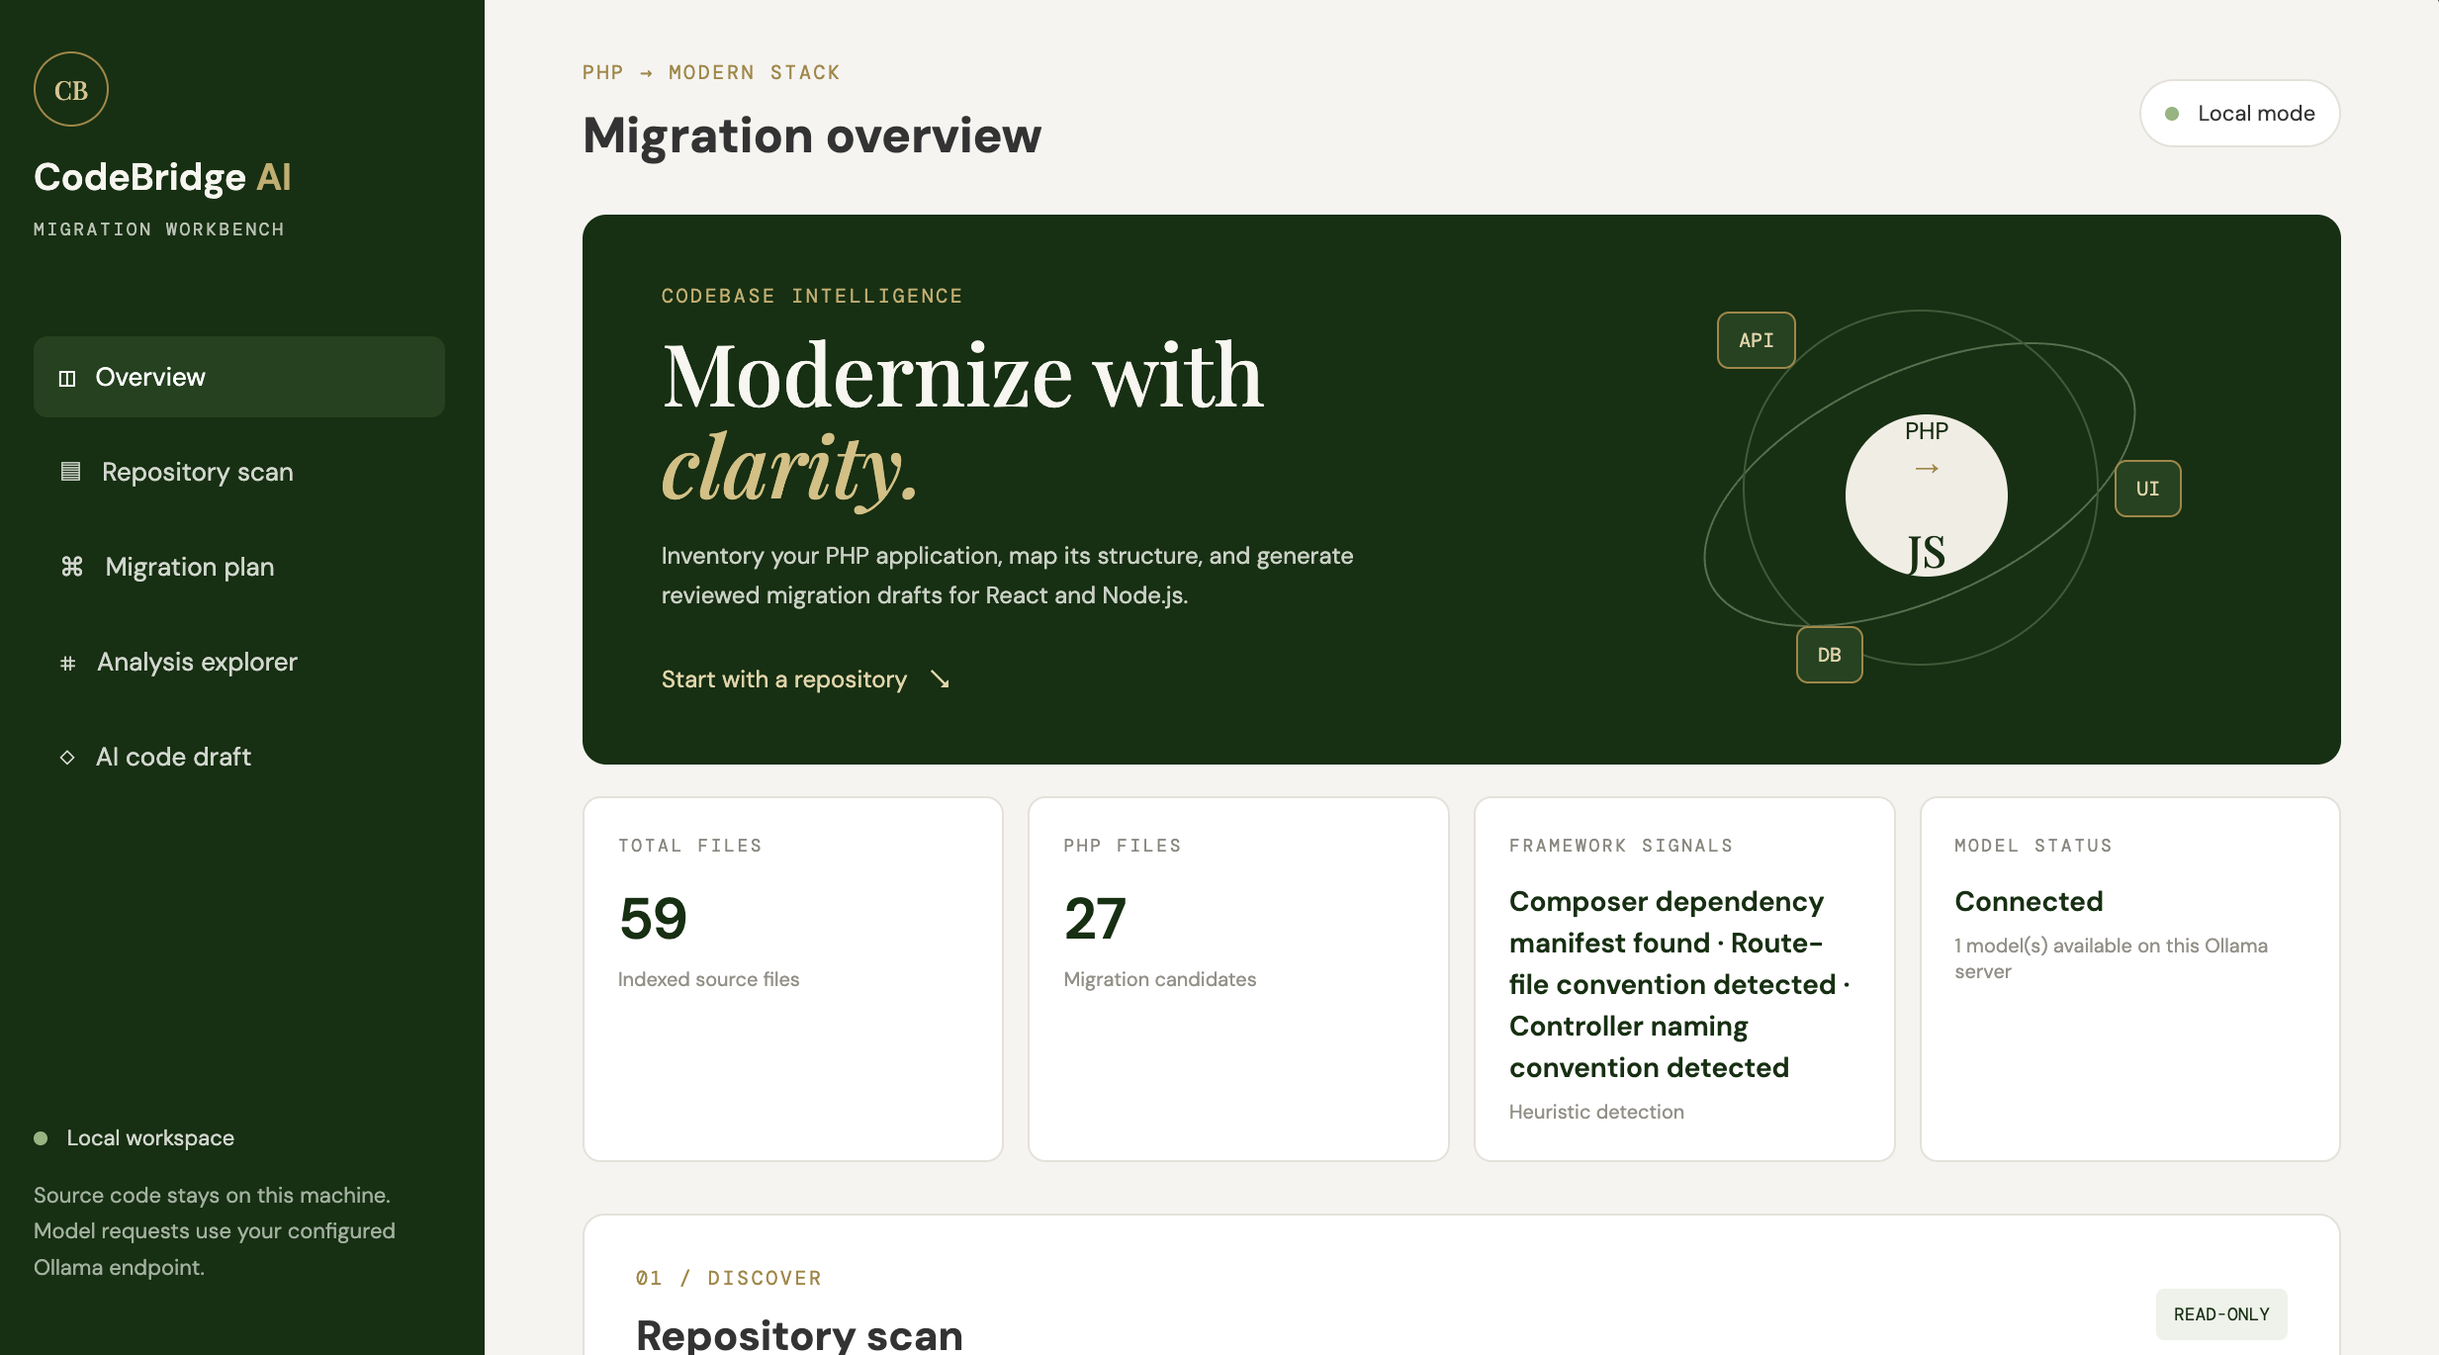
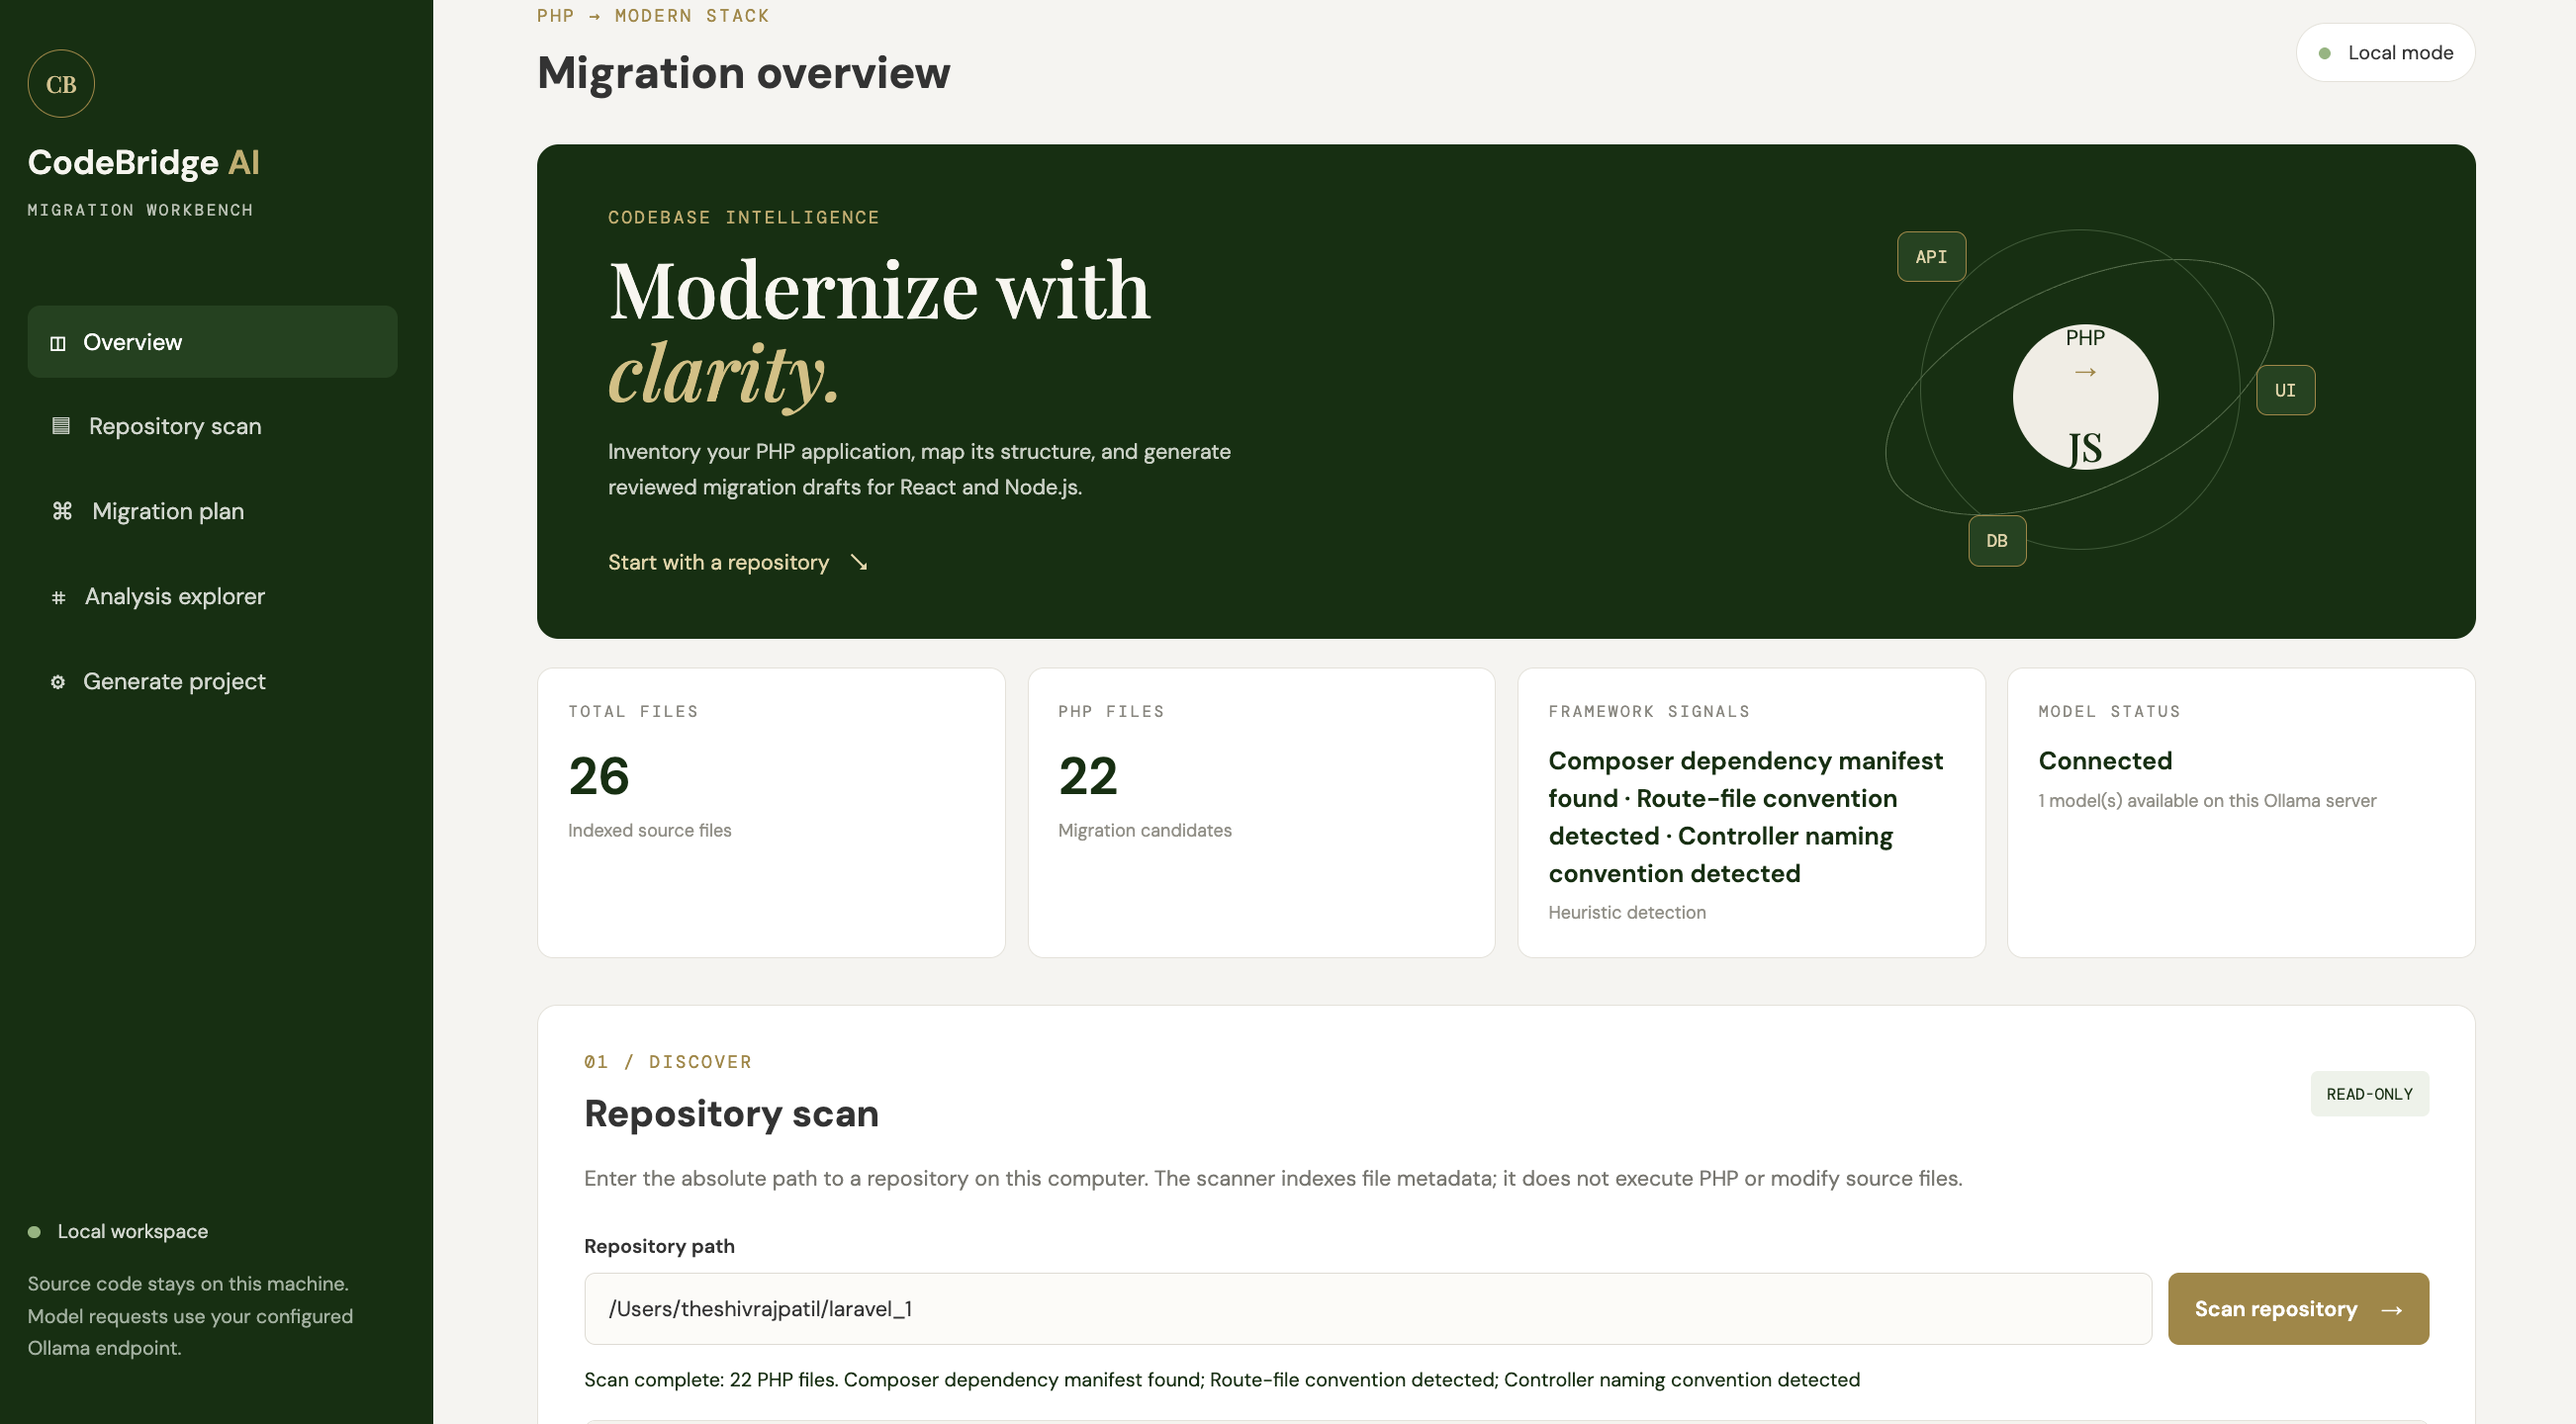
Readme updated

diff --git a/README.md b/README.md
@@ -2,11 +2,6 @@
 
 **Evidence-based, human-approved migration of PHP applications to a MERN stack.**
 
-![Python 3.10+](https://img.shields.io/badge/python-3.10%2B-blue)
-![FastAPI](https://img.shields.io/badge/backend-FastAPI-009688)
-![Tests](https://img.shields.io/badge/tests-133%20cases-blue)
-![Execution](https://img.shields.io/badge/code%20execution-none-lightgrey)
-
 CodeBridge AI is a local-first migration workbench. It analyses a PHP codebase statically (nothing is executed),
 extracts what the application actually does, lets a reviewer approve a migration plan, and can then generate an
 Express, Mongoose and React project. A deterministic parity engine re-analyses the generated code and compares it with
@@ -50,6 +45,12 @@ How to read these numbers:
   Results on other codebases will differ.
 
 ## Screenshots
+
+### Migration overview
+
+Repository scan summary: indexed files, PHP files, detected framework signals and model status.
+
+![Migration overview](docs/screenshots/01-overview.png)
 
 ### Migration plan
 
